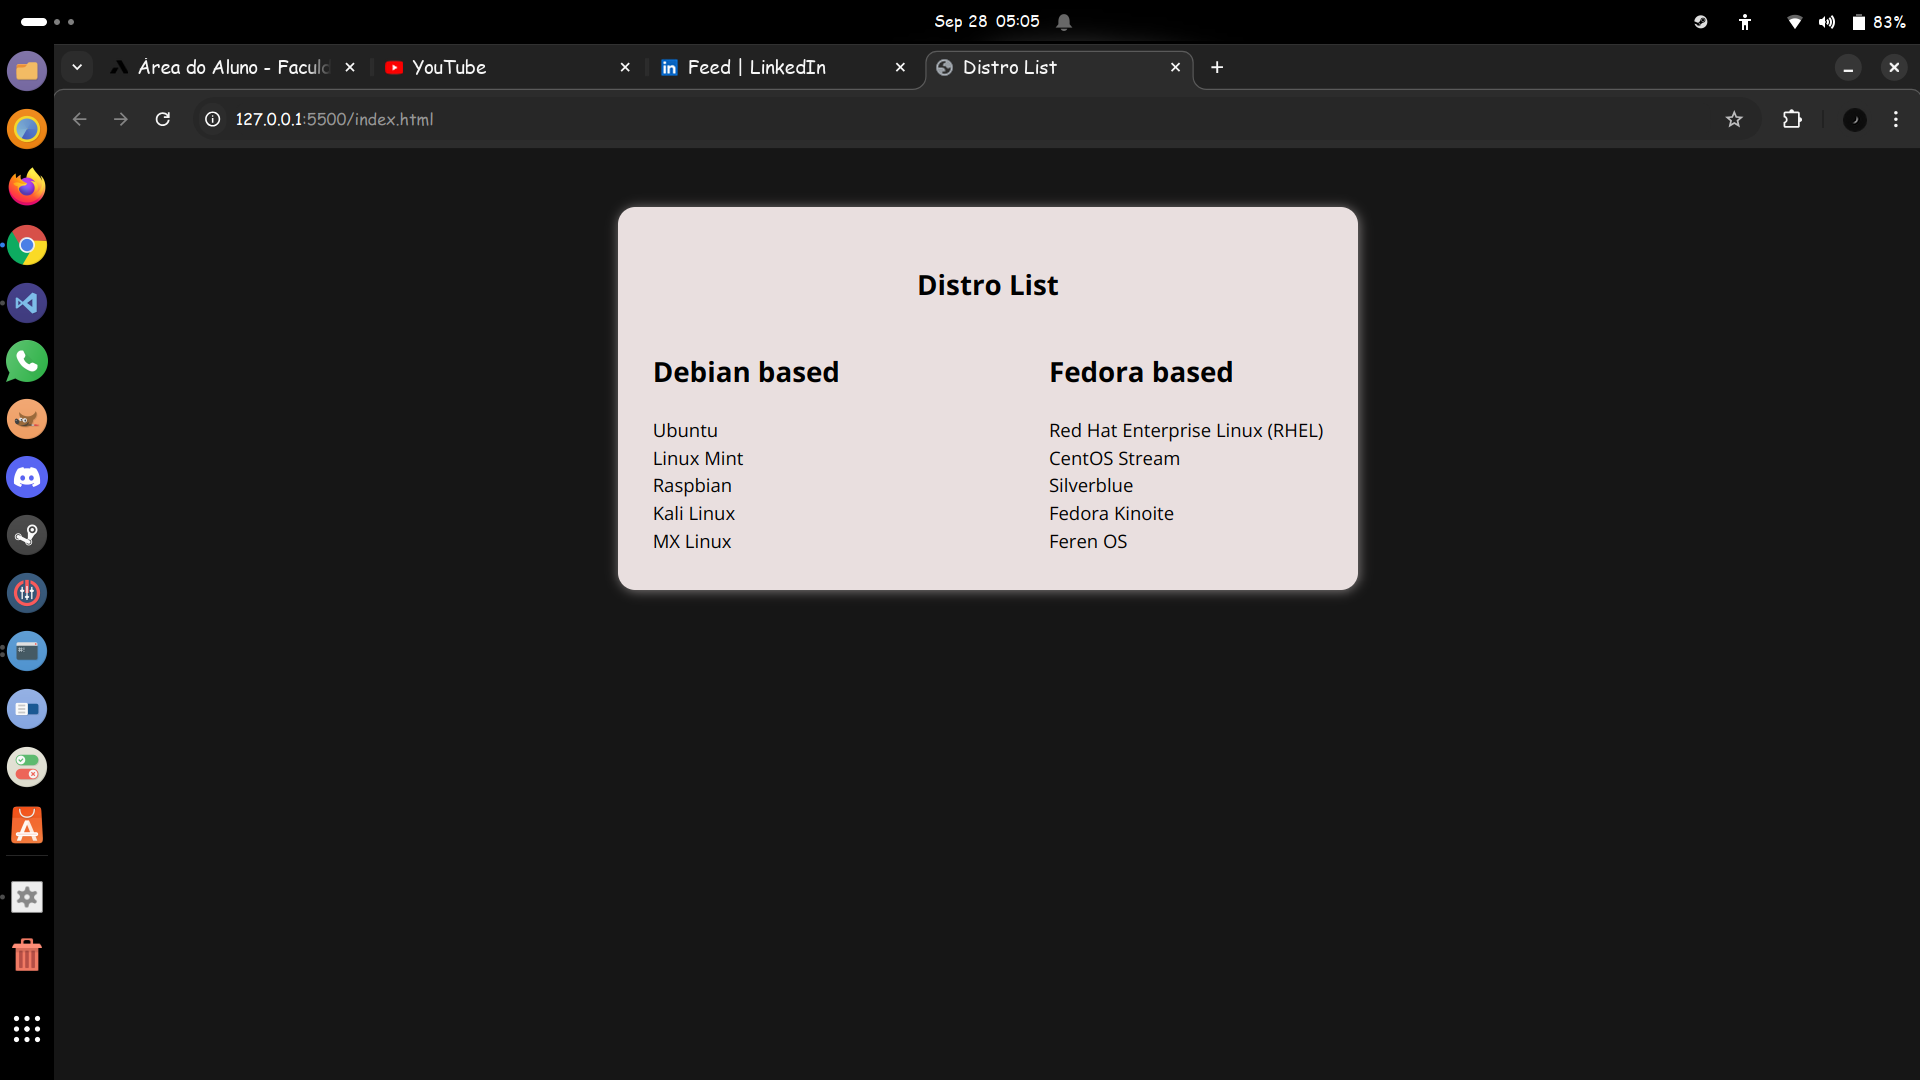
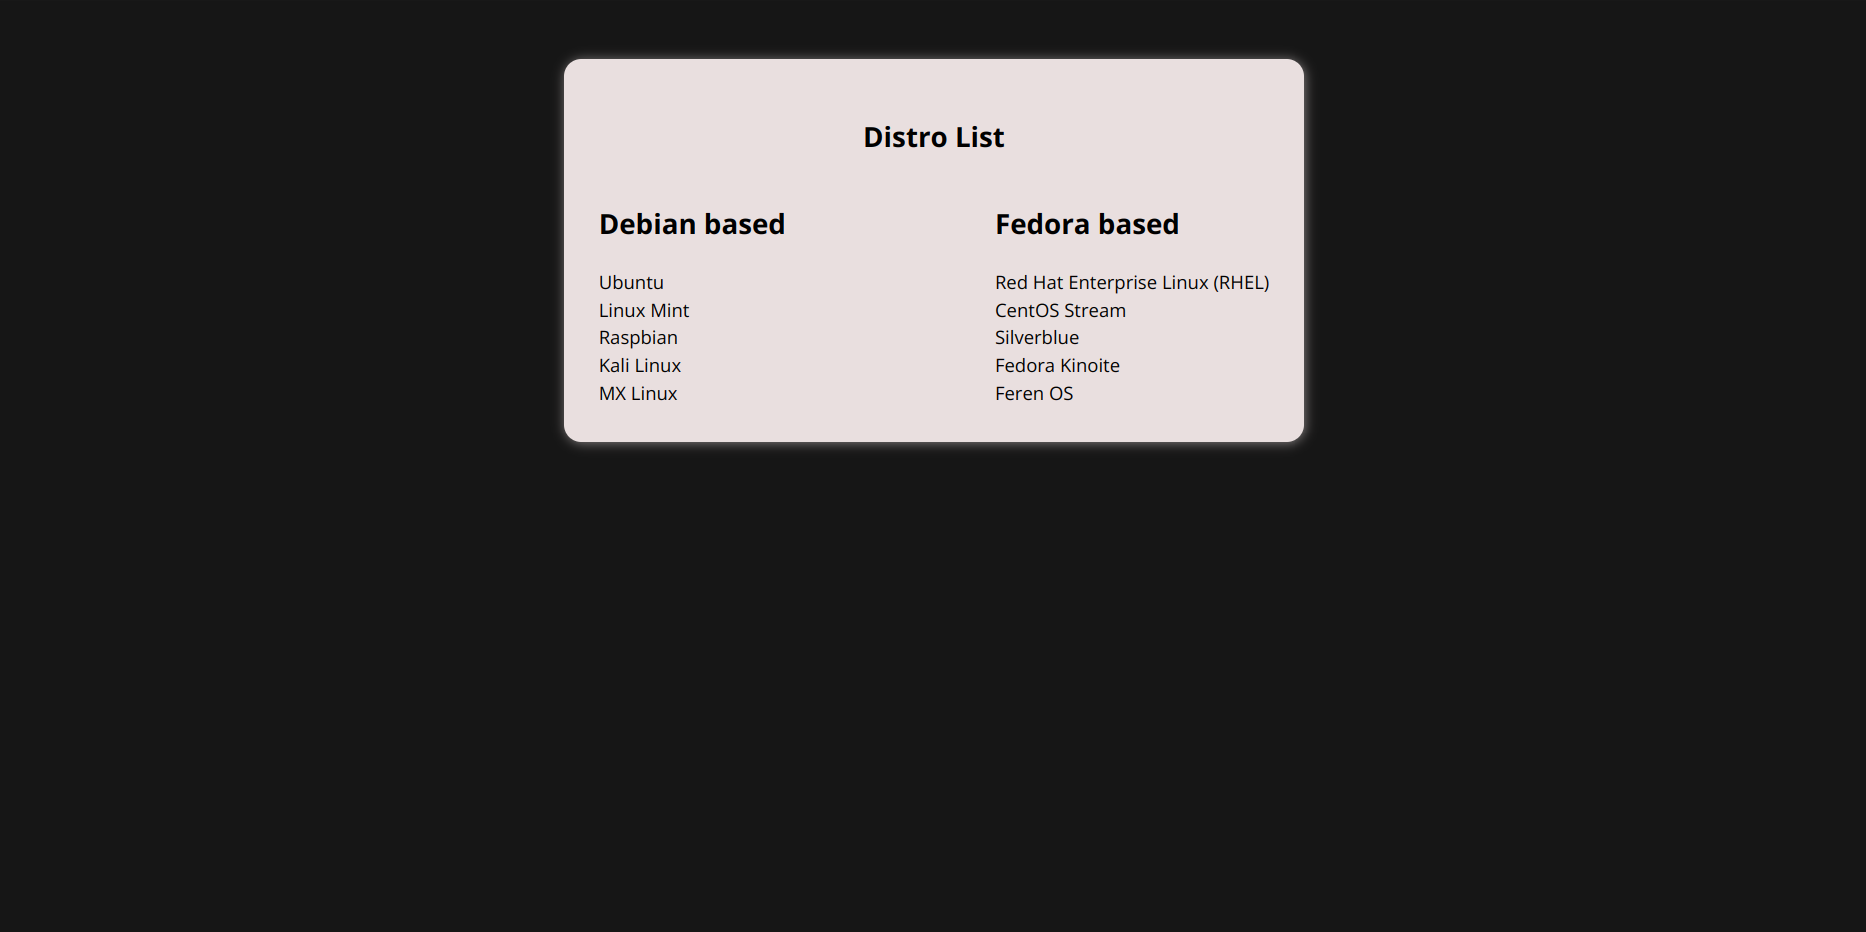
docs: fix title and preview img

diff --git a/readme.md b/readme.md
@@ -1,4 +1,4 @@
-# Data and Time
+# Distro List
 
 ![Static Badge](https://img.shields.io/badge/made_by-alemobn-0D0C0C)
 ![Static Badge](https://img.shields.io/badge/license-MIT-0D0C0C)
